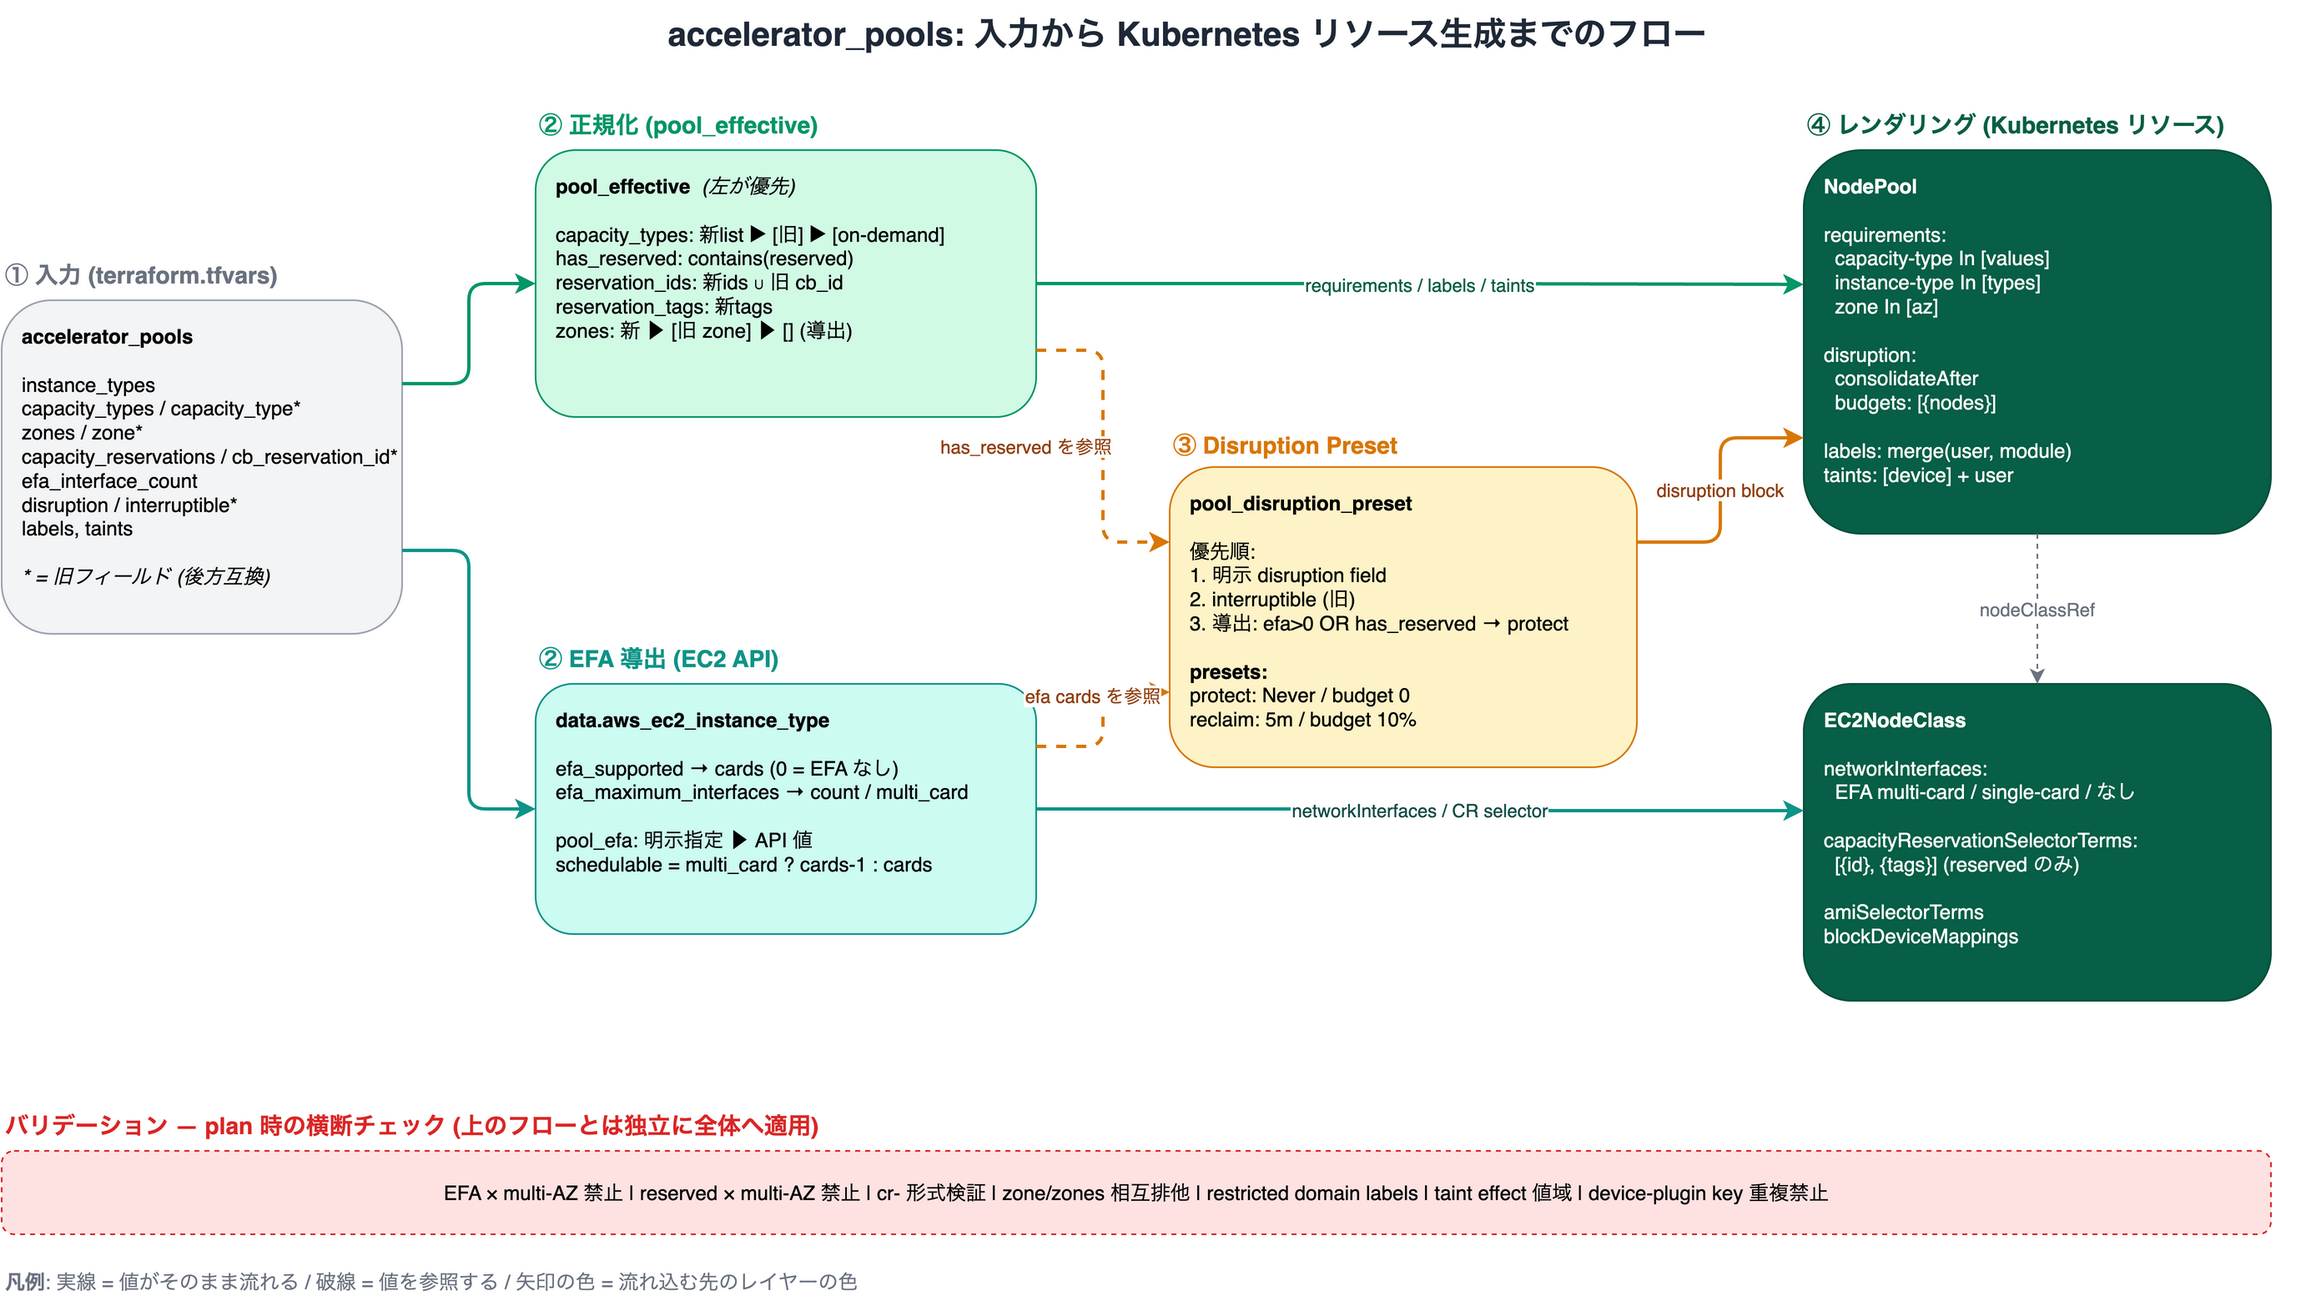
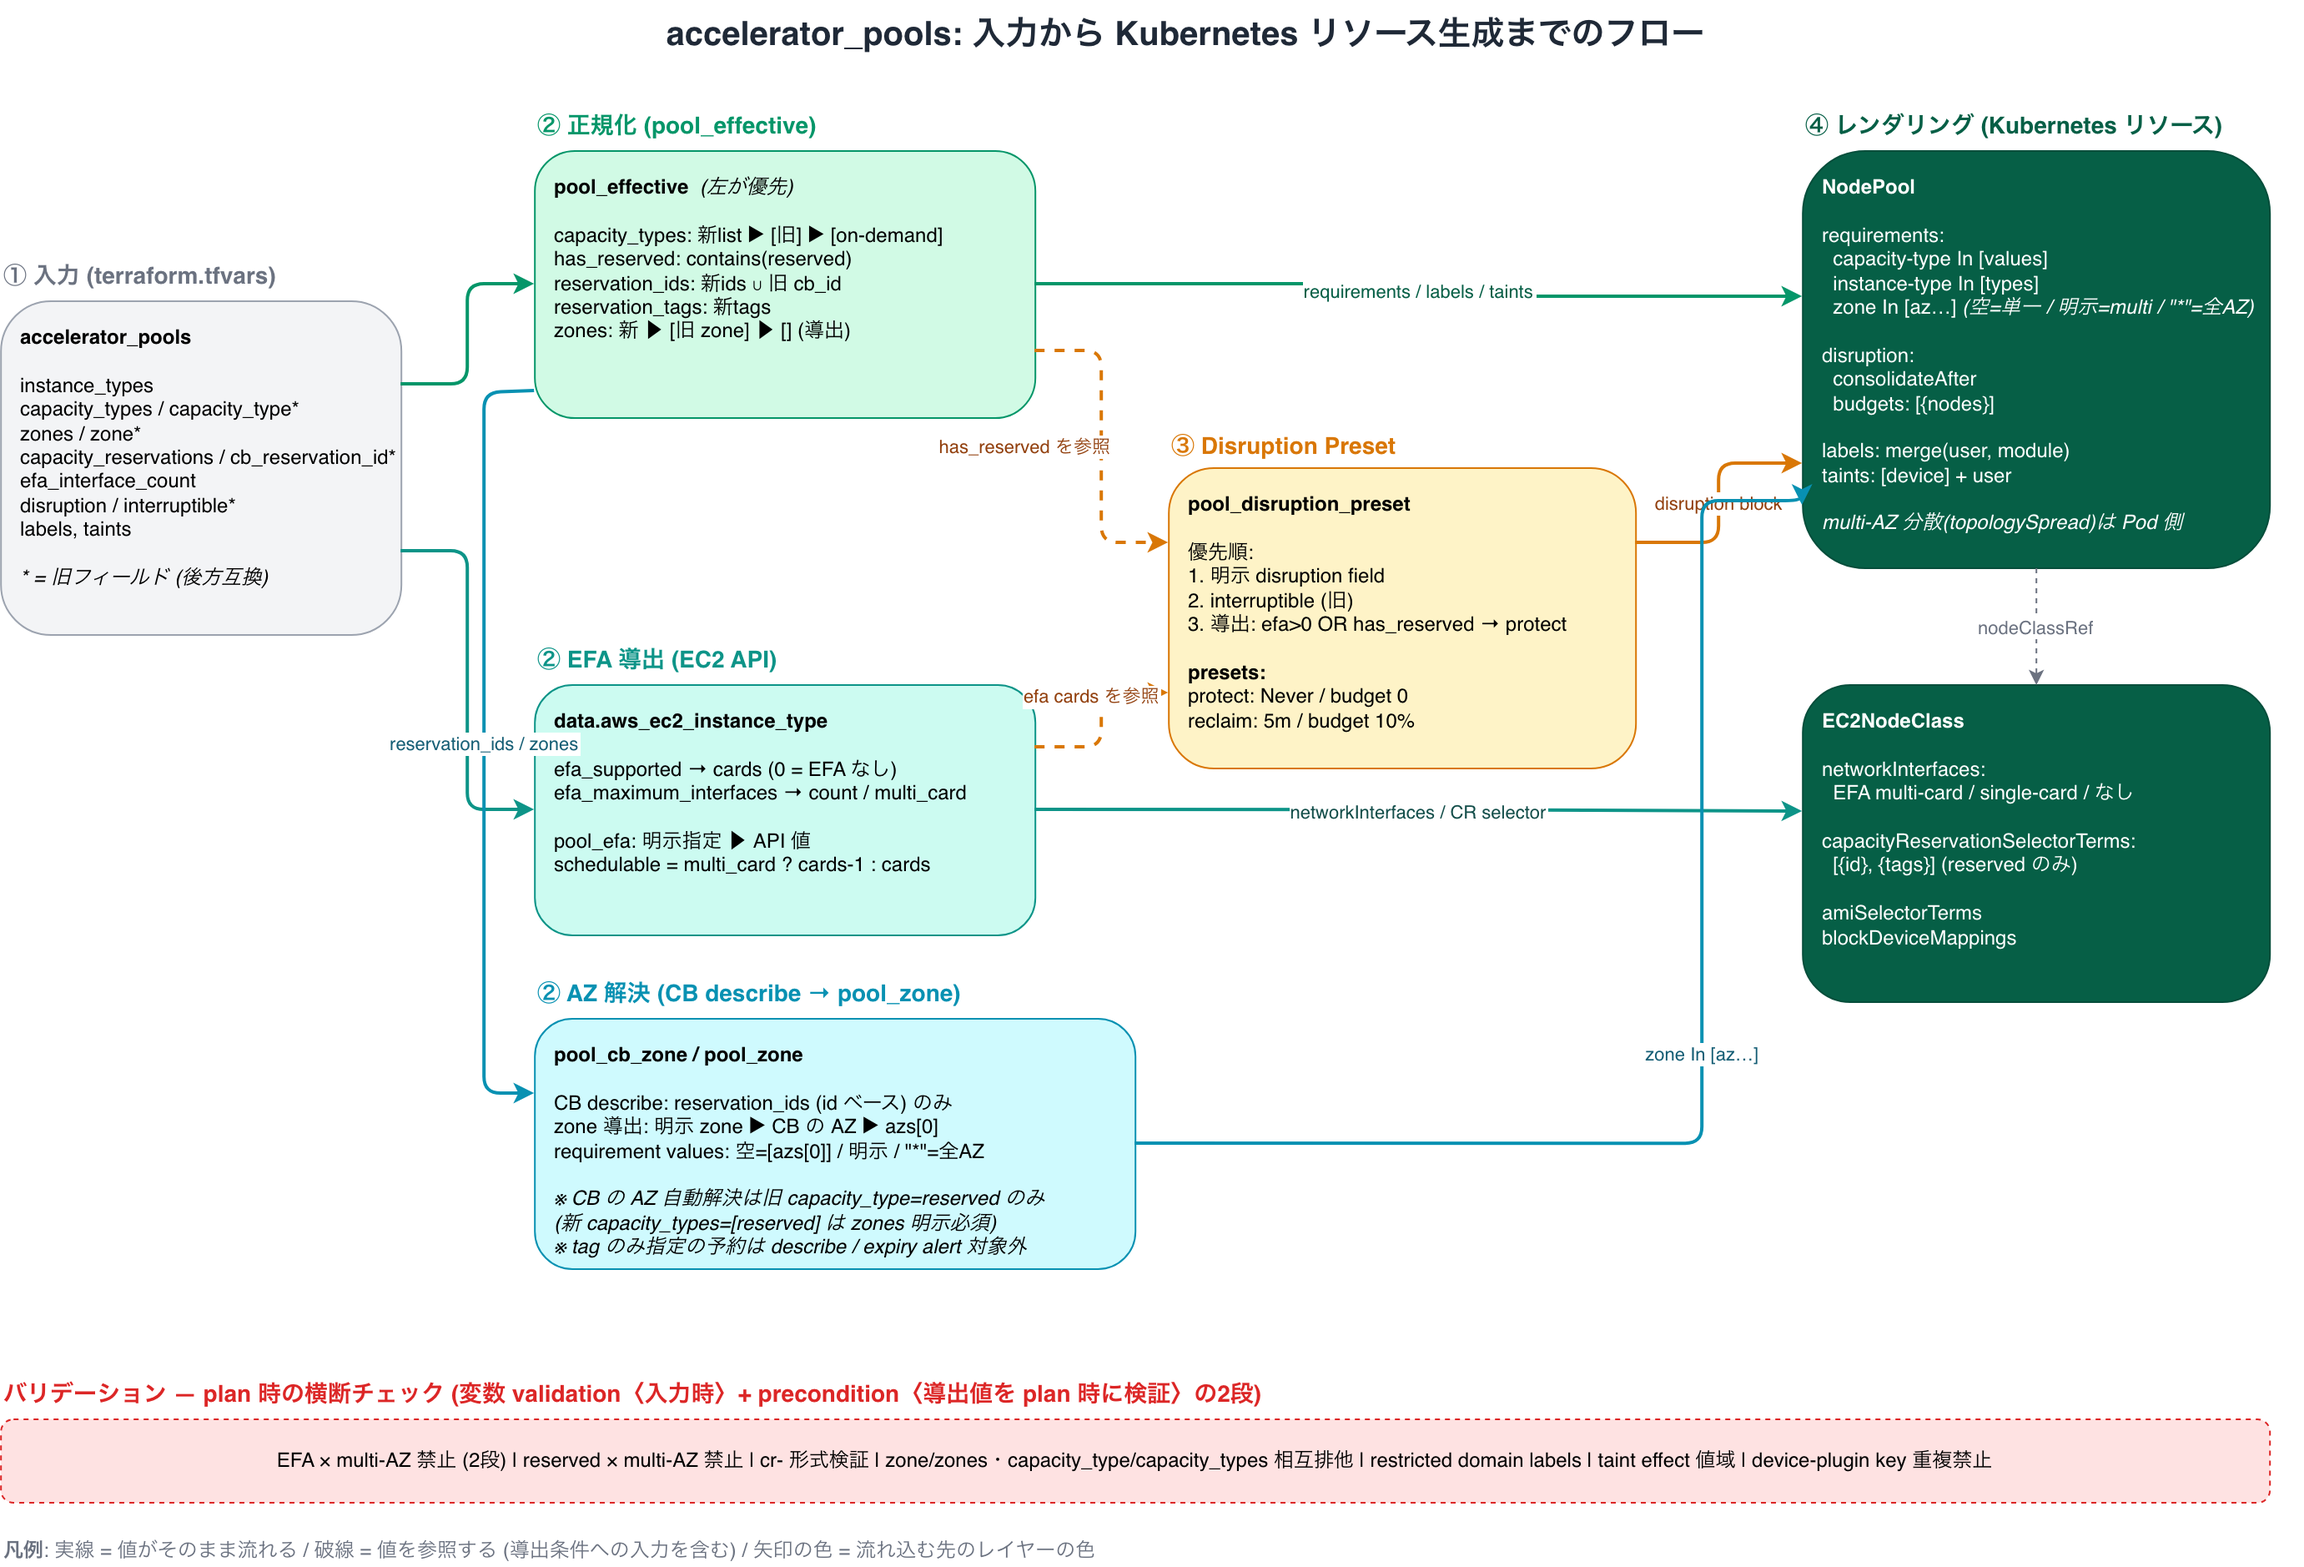
docs(eks-distributed-ai): manage accelerator pools via a cp-able auto.tfvars and note multi-tenant limits
Basic04: start from cp accelerator-pools.tfvars.example, add a section on why the tfvars approach hits RBAC/file-separation limits in multi-tenant use. Basic05: unify kubectl to the k alias. Refresh the accelerator_pools logic diagram (green-based redesign).

diff --git a/books/eks-distributed-ai/eks-accelerator-pools.md b/books/eks-distributed-ai/eks-accelerator-pools.md
@@ -31,7 +31,7 @@ free: true
 
 ## accelerator_pools の設定
 
-### tfvars に 1 エントリ追加するだけ
+### accelerator_pools に 1 エントリ書くだけ
 
 ```hcl
 accelerator_pools = {
@@ -45,7 +45,7 @@ accelerator_pools = {
 }
 ```
 
-この 1 エントリから、Karpenter の NodePool と EC2NodeClass が自動生成されます。
+この 1 エントリから、Karpenter の NodePool と EC2NodeClass が自動生成されます（この定義を実際にどのファイルに書くかは、後述のワークショップ手順で扱います）。
 
 ### 設定の意味
 
@@ -82,13 +82,19 @@ accelerator_pools = {
 
 NVIDIA GPU Operator は Basic03 の時点では入っていません。`accelerator_pools` に `device_plugin = "nvidia"` のプールが 1 つ以上あることを条件(`local.has_gpu_pool`)に導入されるため、本章で `gpu-ddp` プールを足して `terraform apply` した時点で初めてインストールされます。
 
-解説で示した `gpu-ddp` の `accelerator_pools` エントリを `terraform.tfvars` に追記します。`terraform.tfvars` にまだ `accelerator_pools` を書いていない前提で、`infra/eks` ディレクトリで次の heredoc を実行すると末尾に追記できます（すでに `accelerator_pools = { ... }` がある場合は重複定義になるので、その中に `gpu-ddp` エントリだけをエディタで足してください）。
+プール定義は `terraform.tfvars` に直接書かず、専用ファイル `accelerator-pools.auto.tfvars` に置きます。`accelerator_pools` は単一の map 変数なので、`terraform.tfvars` にも書くと重複代入エラーになります。定義箇所をこの 1 ファイルに集約し、`terraform.tfvars` 側には `accelerator_pools` を書かないのがポイントです（変数の `default = {}` があるので、ファイルが無い章でも apply は通ります）。`*.auto.tfvars` は Terraform が自動で読み込むため、`-var-file` の指定も要りません。
+
+リポジトリにはコメント付きの雛形 `accelerator-pools.tfvars.example` があります。初回はこれをコピーして自分用のファイルを作ります。コピー直後は全プール例がコメントアウトされた空の map（`accelerator_pools = {}`）なので、そのままでも apply は通ります。
 
 ```bash
 cd infra/eks
+cp accelerator-pools.tfvars.example accelerator-pools.auto.tfvars
+```
 
-cat >> terraform.tfvars <<'EOF'
+本章ではこのファイルの中身を次の内容にします（雛形のコメント例を消し、`gpu-ddp` を有効化）。冪等に置き換えたいときは、追記（`>>`）ではなく上書き（`cat >`）で以下をそのまま貼ります。何度実行しても同じ状態になります。
 
+```bash
+cat > accelerator-pools.auto.tfvars <<'EOF'
 accelerator_pools = {
   gpu-ddp = {
     instance_types  = ["g6.2xlarge", "g5.2xlarge", "g6.xlarge", "g5.xlarge"]
@@ -101,7 +107,11 @@ accelerator_pools = {
 EOF
 ```
 
-追記できたら apply します。
+:::message
+`terraform.tfvars` 側に `accelerator_pools` の行が残っていると、このファイルと重複してエラーになります。残っていないことを確認してください（`grep accelerator_pools terraform.tfvars` が何も返さなければ OK）。
+:::
+
+書き込めたら apply します。
 
 ```bash
 # infra/eks ディレクトリで
@@ -231,9 +241,22 @@ PASS: 11  FAIL: 0  SKIP: 0  TOTAL: 11
 
 どちらも `capacity_types` リストで表現しますが、Intent F は「1 プールでフォールバックして台数を満たす」、Intent M は「capacity-type ごとに用途を固定する」点が異なります。Intent M と reserved の詳細は Basic05(Capacity Block)で扱います。
 
+# 今の仕組みの限界
+
+ここまでの `accelerator_pools`（Terraform の map 変数を専用 tfvars ファイルで管理する方式）は、一人ないし信頼できる少人数が同じ Terraform state を触る前提では十分に機能します。一方で、複数チームがひとつのクラスタを共有するマルチテナント運用に持ち込もうとすると、次の限界が見えてきます。
+
+::::details マルチテナントで tfvars 方式が破綻する理由
+- **ファイル単位の分離ができない**: `accelerator_pools` は単一の map 変数なので、チーム A とチーム B が別ファイルに `accelerator_pools = {...}` を書くと、本章冒頭で見たのと同じ重複代入エラーになります。結局ひとつのファイルを全員で編集することになり、プルリクエストが恒常的にコンフリクトします。
+- **RBAC で権限を絞れない**: Terraform state と AWS の認証情報を持つ人は、他チームのプール定義も含めて何でも書き換えられます。「チーム A は自分のプールだけ作れる」「Capacity Block の ID はプラットフォーム管理者が許可したものだけ使える」といった、Kubernetes の RBAC 相当の権限分離を tfvars では表現できません。
+- **ノードの分離境界を宣言できない**: あるチームのプールで立てたノードに、他チームの Pod が載らないようにする taint／label の対応関係を、テナント自身が勝手に書き換えられないよう固定する仕組みがありません。tfvars は「誰が書いたか」を区別しないため、境界フィールド（テナント taint や `capacity-type: reserved` のピン留め）を守れません。
+- **セルフサービスにならない**: 新しいプールが欲しいたびにプラットフォームチームへ tfvars の編集を依頼する運用になり、Kubernetes のマニフェストを `kubectl apply` する感覚での自助にはなりません。
+::::
+
+これらは Terraform の使い方の問題ではなく、「アクセラレータプールの確保」をマルチテナントのセルフサービスとして扱うには、Namespace 単位で分離され RBAC で保護される Kubernetes ネイティブな API（CRD）が要る、という構造的な要請です。この課題意識から、Namespace スコープの `AcceleratorPool` CR をテナント分離された Karpenter NodePool に変換する OSS コントローラを別途設計しています（本 book のスコープ外）。本章の tfvars 方式は、まずは単一チームで確実に動かすための土台と位置づけてください。
+
 # まとめ
 
-`accelerator_pools` に 1 エントリ書くだけで、ヘテロジニアスな GPU DDP 環境が立ち上がりました。
+`accelerator_pools` に 1 エントリ書くだけで、ヘテロジニアスな GPU DDP 環境が立ち上がりました。tfvars 方式は単一チームの検証には十分ですが、マルチテナント運用では RBAC やファイル分離の限界があり、そこは Kubernetes ネイティブな CRD で解く領域だと整理しました。
 
 # 参考資料
 
